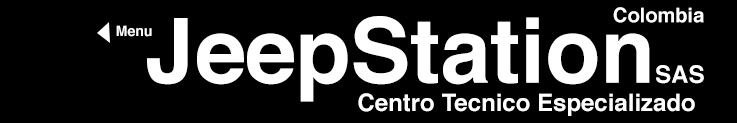
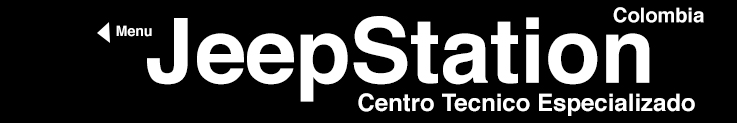
Header New

Changed region(s): [[0.8738, 0.5122, 0.9674, 0.6829]]

diff --git a/Css/styles.css b/Css/styles.css
@@ -307,7 +307,12 @@ overflow: hidden;
 #B-Menu:checked ~ .RMenu {
 margin-top: 25px; 
 opacity: 100%;   
-}  
+}
+
+.HRe img{ 
+width: 100%;
+margin-left: 10px;      
+}
     
     
 
@@ -317,7 +322,8 @@ opacity: 100%;
 
 @media (max-width:325px) { 
 .HRe img{ 
-width: 120%;      
+width: 120%;
+margin-left: 10px;      
 }
 #B-Menu:checked ~ .RMenu {
     margin-top: 25px; 
